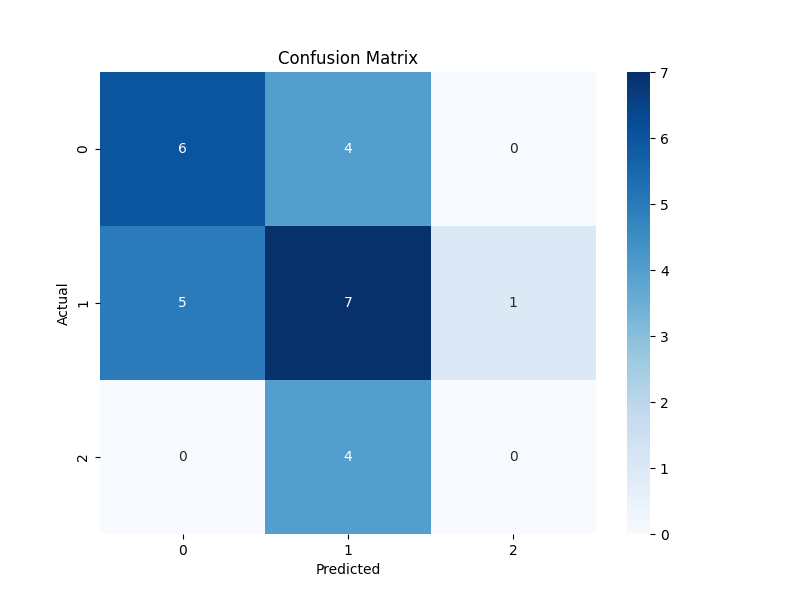
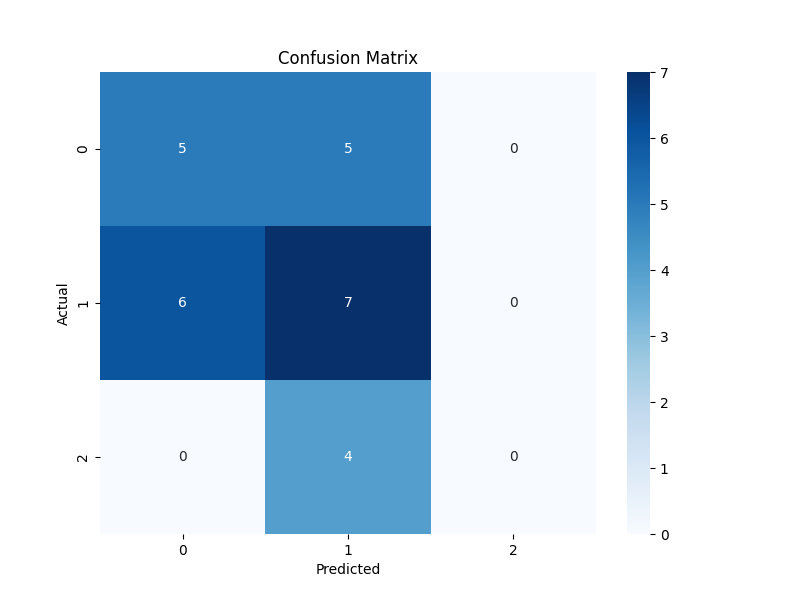
Using PCA to average features down to 2-dimensional space. Now plotting the points in 2-d space as visual representation of what kNN is working off of

Changed region(s): [[0.125, 0.12, 0.75, 0.66]]

diff --git a/src/classify.py b/src/classify.py
@@ -1,6 +1,6 @@
 from typing import List
-
 from pandas import DataFrame
+from sklearn.decomposition import PCA
 from sklearn.feature_selection import RFE
 from sklearn.linear_model import LogisticRegression
 from sklearn.model_selection import train_test_split
@@ -101,12 +101,37 @@ def knn(x, y, k) -> None:
         # Split the data into training and testing sets
         x_train, x_test, y_train, y_test = train_test_split(features, y, test_size=0.2, random_state=42)
 
+        # Perform PCA to reduce the data to 2 dimensions
+        pca = PCA(n_components=2)
+        x_train_pca = pca.fit_transform(x_train)
+        x_test_pca = pca.transform(x_test)
+
         # Initialize and train the kNN classifier
         knn_classifier = KNeighborsClassifier(n_neighbors=k)
-        knn_classifier.fit(x_train, y_train)
+        knn_classifier.fit(x_train_pca, y_train)
+
+        # create scatter graph (only need 1 set, so do whenever k=3)
+        if k == 3:
+            graphs.knn_scatter(x_train_pca, x_test_pca, y_train, y_test, feature_selection)
+
+        # # Plotting the training data after PCA
+        # plt.figure(figsize=(8, 6))
+        # plt.scatter(x_train_pca[:, 0], x_train_pca[:, 1], c=y_train, cmap='viridis', edgecolor='k', s=50)
+        # plt.xlabel('Principal Component 1')
+        # plt.ylabel('Principal Component 2')
+        # plt.title('2D Plot of Training Data (After PCA)')
+        #
+        # h = 0.02  # step size in the mesh
+        # x_min, x_max = x_train_pca[:, 0].min() - 1, x_train_pca[:, 0].max() + 1
+        # y_min, y_max = x_train_pca[:, 1].min() - 1, x_train_pca[:, 1].max() + 1
+        # xx, yy = np.meshgrid(np.arange(x_min, x_max, h), np.arange(y_min, y_max, h))
+        # Z = knn_classifier.predict(np.c_[xx.ravel(), yy.ravel()])
+        # Z = Z.reshape(xx.shape)
+        # plt.contourf(xx, yy, Z, cmap='viridis', alpha=0.5)
+        # plt.show()
 
         # Evaluate the model
-        accuracy = knn_classifier.score(x_test, y_test)
+        accuracy = knn_classifier.score(x_test_pca, y_test)
 
         # write accuracy to log
         with open(f"../data/logs/{feature_selection}_{k}.log", "a") as f:
@@ -116,7 +141,7 @@ def knn(x, y, k) -> None:
         scores.append((f"{feature_selection}-{k}", round(accuracy, 4)))
 
         # Assuming knn_classifier is your trained kNN classifier
-        y_pred = knn_classifier.predict(x_test)
+        y_pred = knn_classifier.predict(x_test_pca)
 
         yield y_pred == y_test
 

diff --git a/src/graphs.py b/src/graphs.py
@@ -1,6 +1,25 @@
+from matplotlib.colors import ListedColormap
 from sklearn.metrics import confusion_matrix
 import seaborn as sns
 import matplotlib.pyplot as plt
+
+
+def knn_scatter(x_train, x_test, y_train, y_test, feature_selection):
+    cmap = ListedColormap(['r', 'y', 'b'])
+
+    # Plotting training and testing data
+    plt.scatter(x_train[:, 0], x_train[:, 1], c=y_train, cmap=cmap ,label='Training Data', edgecolor='k', s=50)
+    plt.scatter(x_test[:, 0], x_test[:, 1], c=y_test, cmap=cmap, label='Testing Data', edgecolor='k', s=50, marker='^')
+    plt.xlabel('Principal Component 1')
+    plt.ylabel('Principal Component 2')
+    plt.title(f'{feature_selection}')
+    #plt.legend()
+    # Create a legend with black points
+    handles = [plt.Line2D([0], [0], marker='o', color='w', markerfacecolor='k', markersize=10, label='Training Data'),
+               plt.Line2D([0], [0], marker='^', color='w', markerfacecolor='k', markersize=10, label='Testing Data')]
+    plt.legend(handles=handles)
+    plt.savefig(f"../data/plots/scatter_plot_{feature_selection}.png")
+    plt.close()
 
 def misclassification_count(m: list):
     labels = [item[0] for item in m]
@@ -33,7 +52,6 @@ def accuracy_comparison(labels, values):
     :return: None
     """
     plt.bar(labels, values)
-    plt.xlabel('Labels')
     plt.ylabel('Accuracy Scores')
     plt.title('Accuracy Score Comparison')
     plt.xticks(rotation=90)

diff --git a/src/main.py b/src/main.py
@@ -19,8 +19,6 @@ if __name__ == '__main__':
     d = ['College', 'Final_Standing']
     # isolate just the teams
     teams = data[d].copy()
-    print(type(teams))
-    print(teams.to_numpy())
 
     # classify k = 3
     for val in classify.knn(x=features, y=labels, k=3):
